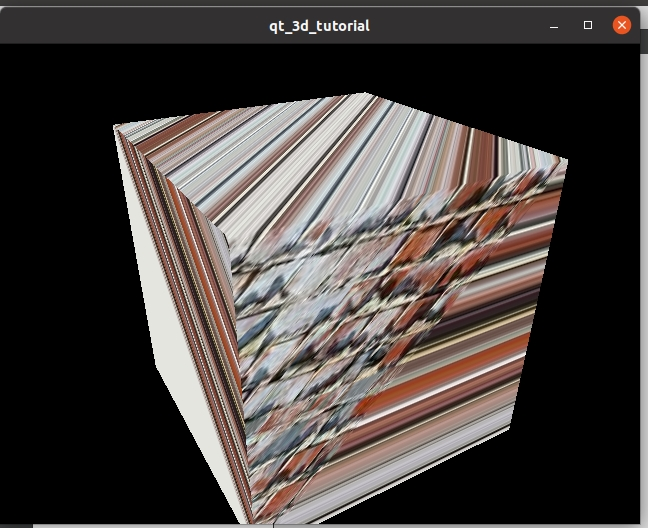
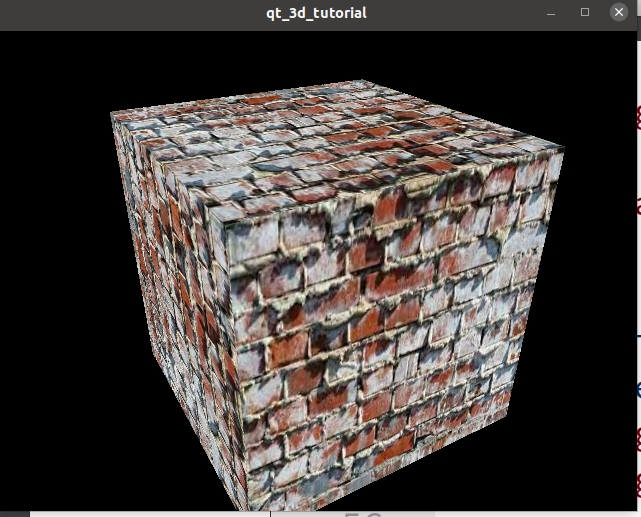
done

diff --git a/qt_3d_opengl/lesson_1/widget.cpp b/qt_3d_opengl/lesson_1/widget.cpp
@@ -54,7 +54,7 @@ void Widget::paintGL()
     m_program.enableAttributeArray(vertLoc);
     m_program.setAttributeBuffer(vertLoc, GL_FLOAT, offset, 3, sizeof (VertexData));
 
-    offset += sizeof (VertexData);
+    offset += sizeof (QVector3D);
     int textLoc = m_program.attributeLocation("qt_MultiTexCoord0");
     m_program.enableAttributeArray(textLoc);
     m_program.setAttributeBuffer(textLoc, GL_FLOAT, offset, 2, sizeof (VertexData));
